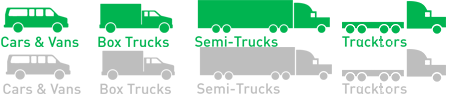
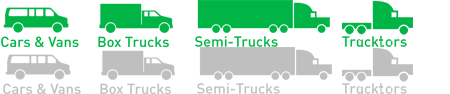
v 0.2.511

Changed region(s): [[0.7467, 0.0, 0.9956, 0.383], [0.7467, 0.5106, 0.9956, 0.8723], [0.7778, 0.8511, 0.8089, 0.8723]]

diff --git a/www/js/view/SettingsPage.js b/www/js/view/SettingsPage.js
@@ -17,7 +17,7 @@ Ext.define('App.view.SettingsPage' ,{
                     +'<div class="page"><br><br>'
 //                    +'<p style="padding-left: 20%;text-align: left">Version database: xx-xx-xx<br>Last update: yy-yy-yy<br><br><button style="width: 200px; height: 80px">Update now</button></p>'
 //                    +'<p style="padding-left: 20%;text-align: left">Checking for update...</p>'
-                    +'<p style="width: 100%;text-align: center">Your software is up to date (v0.2.51)</p><br><br>'
+                    +'<p style="width: 100%;text-align: center">Your software is up to date (v0.2.511)</p><br><br>'
                     +'<div id="updateData" style="height: 50px;background-color: #30b457; width: 200px;padding: 10px;cursor: pointer;position:relative;left:50%;margin-left:-100px;color:#FFF">Update DB<br><span id="verdb"></span></div>'
                     +'</div>',
                 listeners: {

diff --git a/www/js/view/panel/TripPlanerPanel.js b/www/js/view/panel/TripPlanerPanel.js
@@ -215,6 +215,7 @@ Ext.define('App.view.TripPlaner' ,{
     },
 
     swipeItems: function(id) {
+        clearInterval( Ext.getCmp('mapPanel').searchBoxInputUpd );
         var index = id.slice(13,id.length),
             oldValue = Ext.get('tp-end-point-'+index).dom.value;
         Ext.get('tp-end-point-'+index).dom.value = Ext.get('tp-end-point-'+(index-1)).dom.value;
@@ -313,6 +314,8 @@ Ext.define('App.view.TripPlaner' ,{
                 viewInfoPopup("Error", message);
             }
             setTimeout(function(){
+                var cz = Ext.getCmp("mapPanel").gMap.getZoom()-1;
+                Ext.getCmp("mapPanel").gMap.setZoom( cz )
                 mapPanel.unmask();
             },500);
         });

diff --git a/www/css/icons.css b/www/css/icons.css
@@ -88,7 +88,7 @@
 }
 
 #vehicle-type-tractor-info{
-    position: absolute;top:0px;left:57%;width:152px;height:47px;zoom: .9;
+    position: absolute;top:0px;left:63%;width:152px;height:47px;zoom: .9;
     background: url('../img/icons-vehicle-type.png') no-repeat -335px -48px;
 }
 #vehicle-type-tractor{
